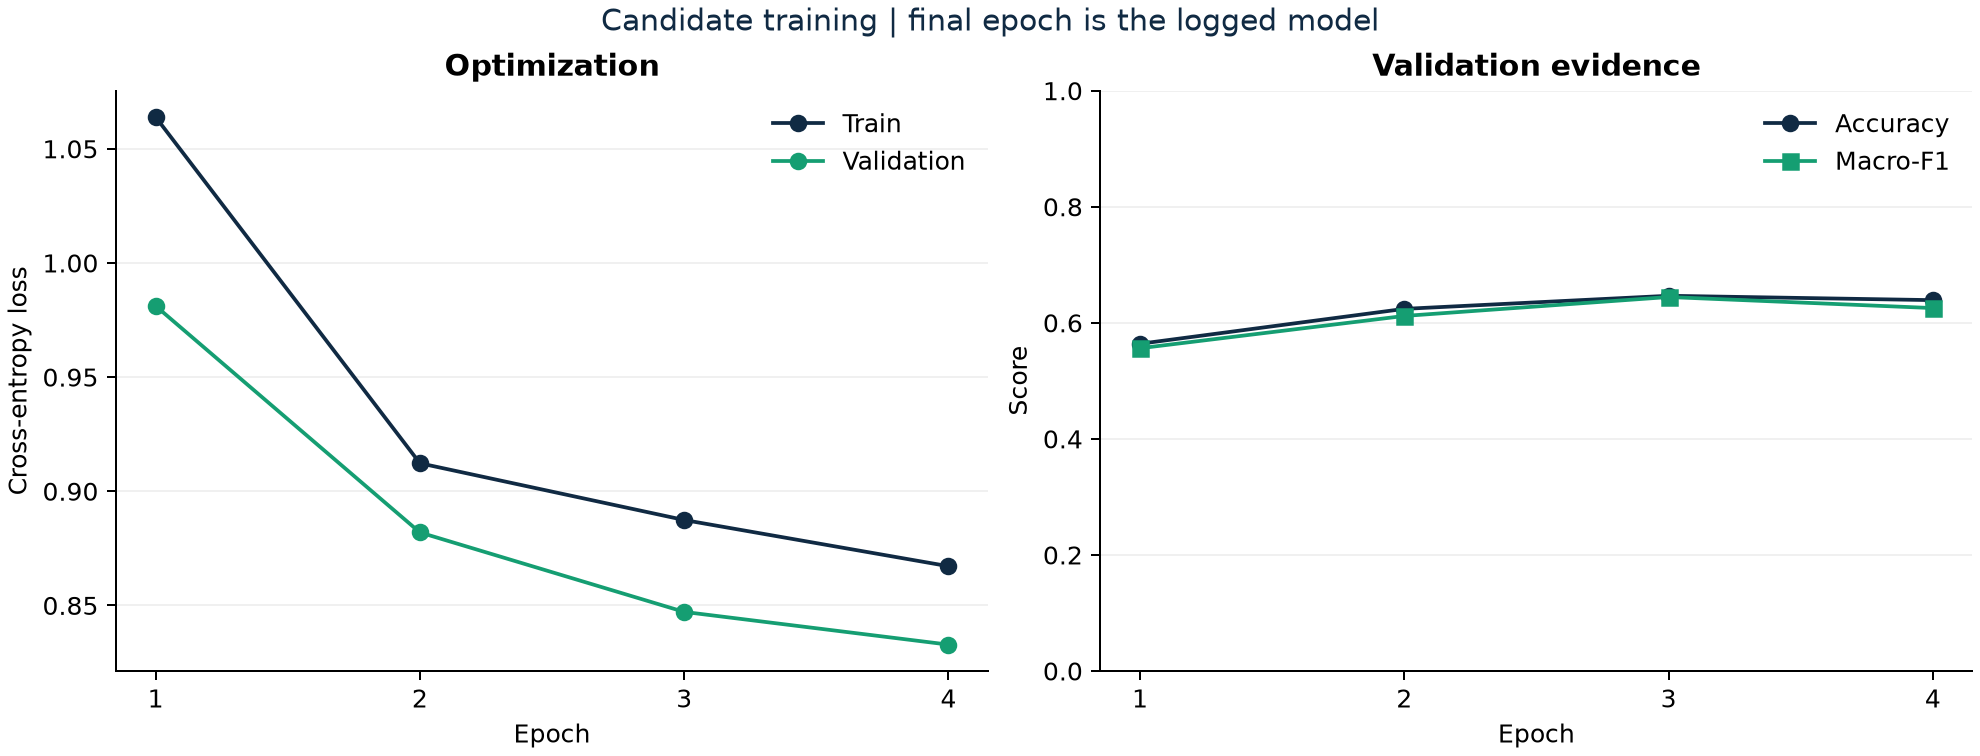
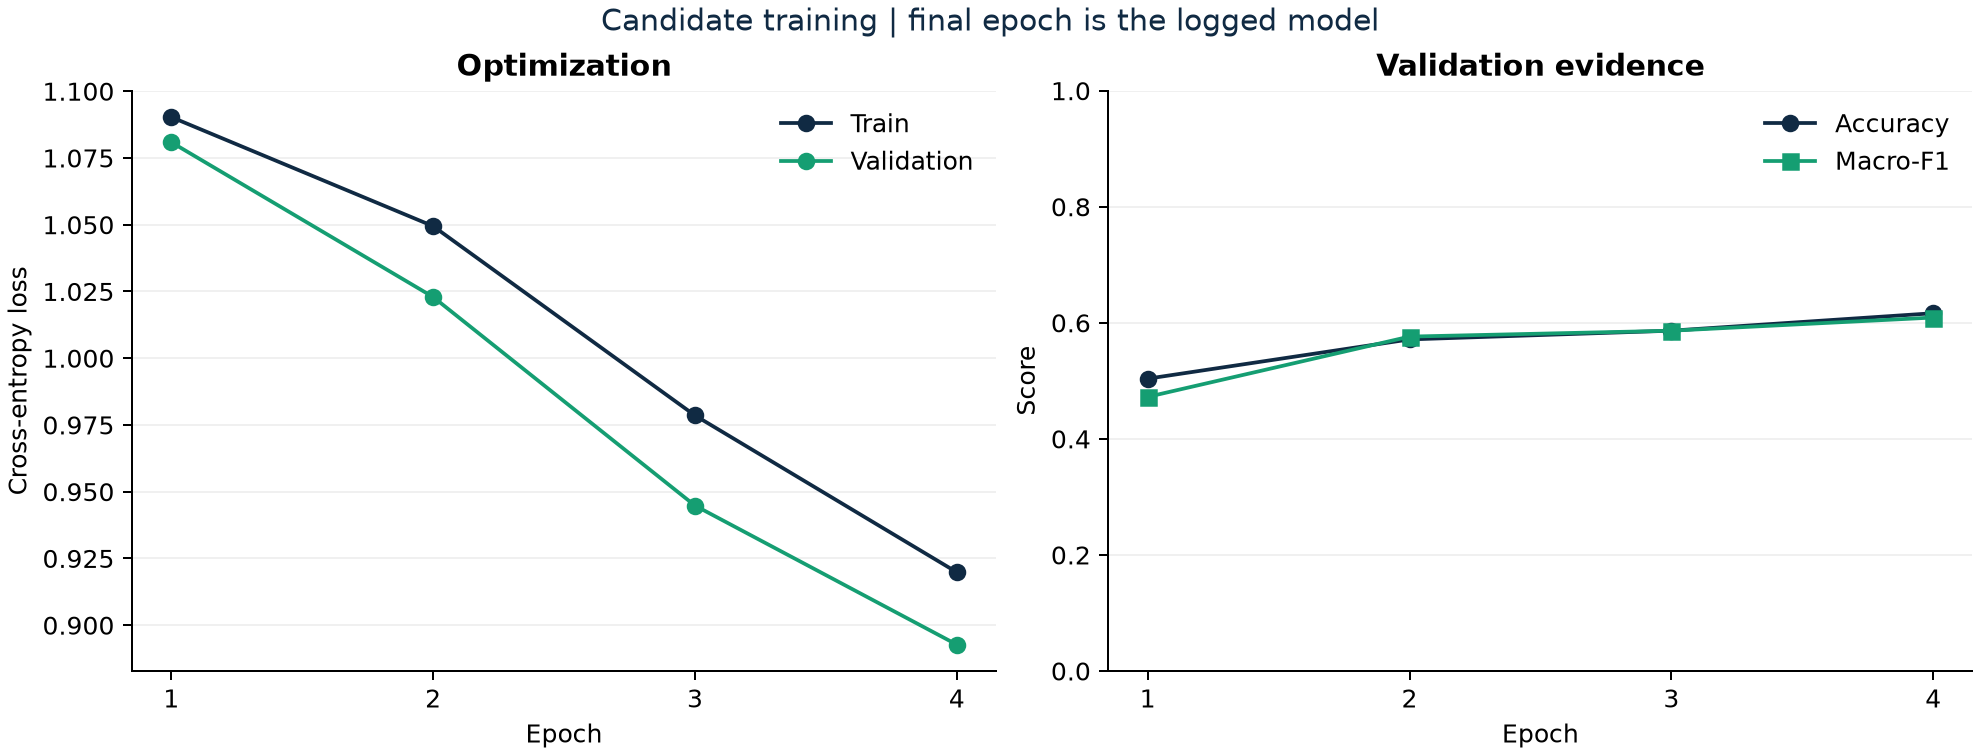
Record Run B and the recomputation checks

diff --git a/LAB_REPORT.md b/LAB_REPORT.md
@@ -109,3 +109,47 @@ These small differences add up over training. The seed gives identical results o
 - **Main validation metric:** `val_macro_f1` at the final epoch. **Tie-break:** if two Runs have the same macro-F1 (to 3 decimals), I choose the lower `val_loss`. Macro-F1 gives the same weight to the 3 classes, so it's a better choice than accuracy if one disease class is predicted badly.
 - **Expected effect of a lower learning rate (0.001 -> 0.0003):** with only 4 epochs, I expect the model to learn more slowly: a higher train and validation loss at each epoch and probably a slightly lower validation macro-F1, but smoother, more stable curves.
 - **Run A (baseline, `learning_rate=0.001`):** `d7f31458868947a8817363e5f98676dc`
+- **Run B (`learning_rate=0.0003`):** `5867735848e64a468cc3e29066036840`
+
+### 6.4 Observed results
+
+| Check | VALIDATE | PREPARE | TRAIN | EVALUATE |
+|-------|----------|---------|-------|----------|
+| Run A: first `dvc repro train` (no `dvc.lock` yet) | RERUN | RERUN | RERUN | NOT RUN |
+| 1. Run again, nothing changed | REUSED | REUSED | REUSED | NOT RUN |
+| 2. Comment in `src/validate_data.py` | RERUN | REUSED | REUSED | NOT RUN |
+| Run B: `train.learning_rate` 0.001 -> 0.0003 | REUSED | REUSED | RERUN | NOT RUN |
+
+Terminal lines:
+
+```text
+# Run A
+Running stage 'validate':
+Running stage 'prepare':
+Running stage 'train':
+Training complete. MLflow Run ID: d7f31458868947a8817363e5f98676dc
+
+# Check 1
+Stage 'validate' didn't change, skipping
+Stage 'prepare' didn't change, skipping
+Stage 'train' didn't change, skipping
+Data and pipelines are up to date.
+
+# Check 2
+Running stage 'validate':
+> uv run --locked python -m src.validate_data
+Stage 'prepare' didn't change, skipping
+Stage 'train' didn't change, skipping
+
+# Run B
+Stage 'validate' didn't change, skipping
+Stage 'prepare' didn't change, skipping
+Running stage 'train':
+Training complete. MLflow Run ID: 5867735848e64a468cc3e29066036840
+```
+
+**Comparison with the predictions:**
+- **Check 2** matches my prediction for the `validate_data.py` row. VALIDATE reran because its code dep changed, but `reports/data_quality.json` had the same content (same MD5 before and after: `139ec61e...`), so PREPARE's deps didn't change and DVC skipped it, and TRAIN with it.
+- **Run B** matches the `learning_rate` row. Only TRAIN has `train.learning_rate` in its `params`, so VALIDATE and PREPARE were skipped. EVALUATE was not run because `dvc repro train` only runs `train` and the stages before it.
+- **Run A** reran everything because there was no `dvc.lock` yet, so DVC had nothing to compare with. This isn't one of the predicted rows. Check 1 shows that once `dvc.lock` exists, nothing reruns without a change.
+- **Difference I didn't expect:** Run B's manifest says `dirty: true` although I committed before training. Before running a stage, DVC deletes that stage's outputs. `reports/run_manifest.json`, `train_summary.json` and `training_curves.png` are tracked by Git (`cache: false`), so they were missing when the manifest ran `git status`. The code at commit `5d5a3e4` was clean; only TRAIN's own outputs show as changed.
